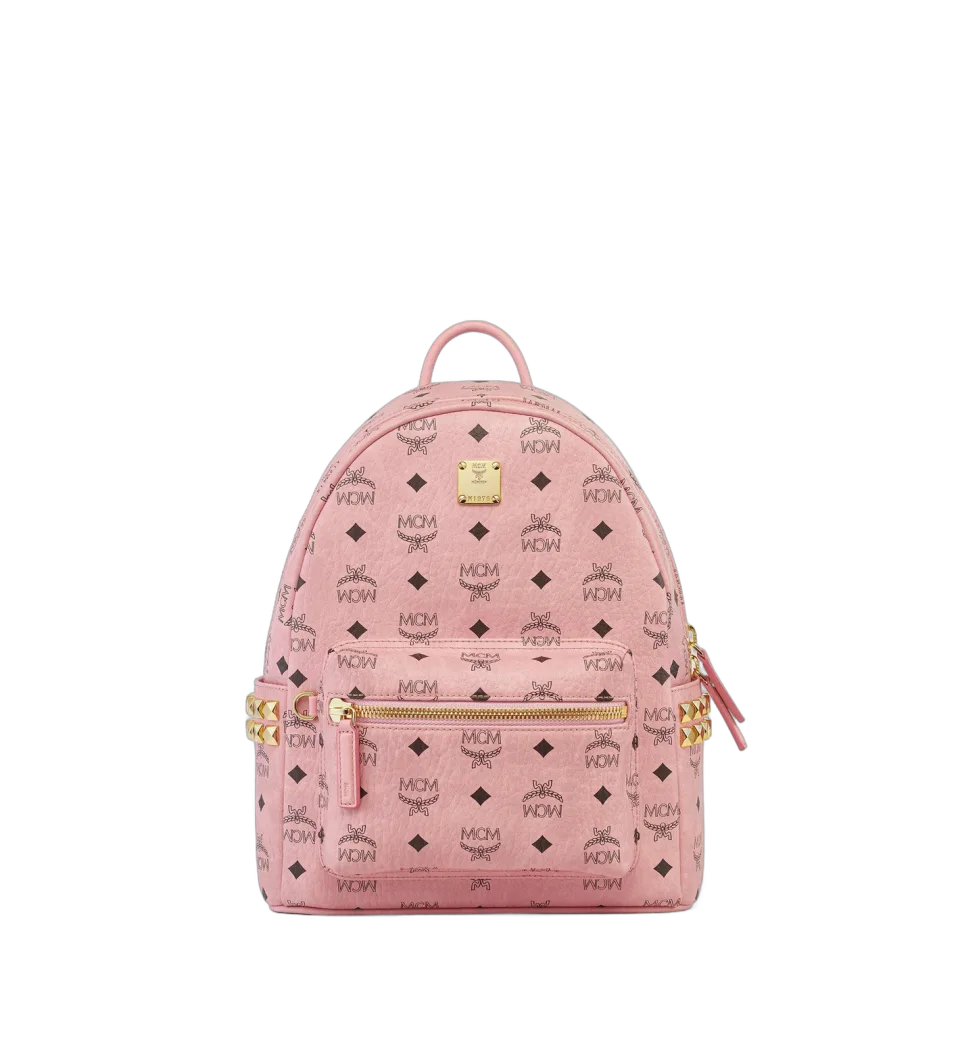
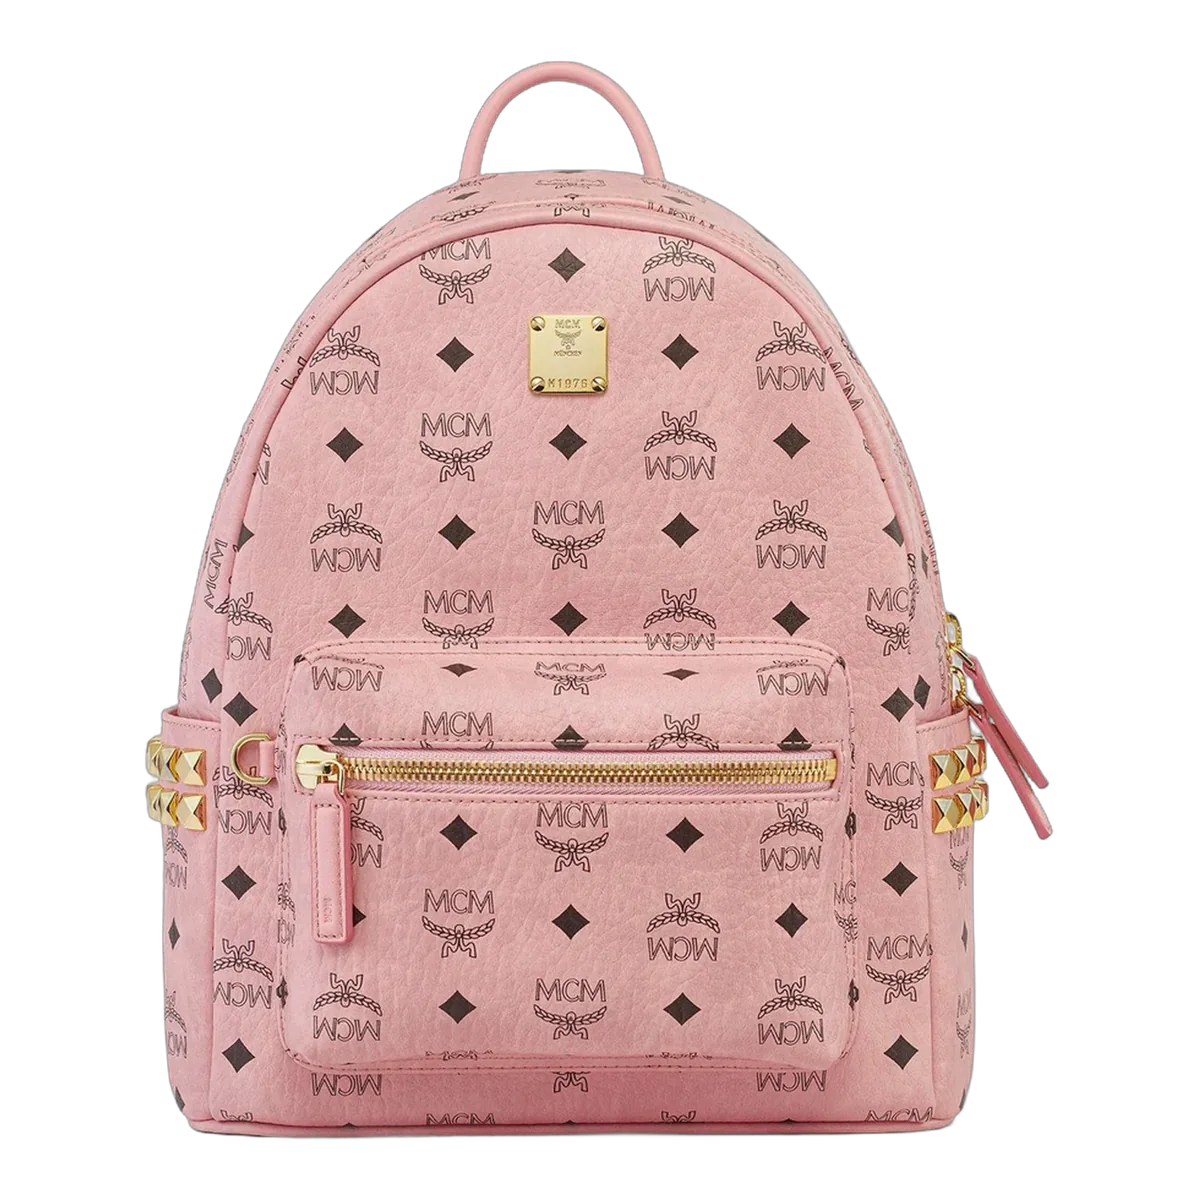
FIX: 배경 버그수정

diff --git a/src/App.css b/src/App.css
@@ -193,8 +193,12 @@
   margin-inline: auto;
 }
 
+/* Absolute, not fixed: the docent stays mounted across A1→A2→B1→B2 so the WebGL
+   context and GLB survive route changes, but it belongs to the page rather than the
+   viewport. Fixed made it hover over the content whenever a screen overflowed.
+   `.app-shell__content` is the positioned ancestor. */
 .stage-entry-persistent-docent {
-  position: fixed;
+  position: absolute;
   z-index: 2;
   width: min(85.8%, 21.5625rem);
   aspect-ratio: 345 / 216;
@@ -470,7 +474,7 @@
   --stage-c-featured-product-height: min(20rem, 42dvh);
   --stage-c-featured-product-media-height: clamp(15rem, 39dvh, 20rem);
   --stage-c-product-media-top-space: clamp(0.75rem, 2.25dvh, 1.25rem);
-  --stage-c-primary-cutout-scale: 1.38;
+  --stage-c-primary-cutout-scale: 1;
   --stage-c-close-inline-inset: 0.375rem;
   --stage-c-close-shift-inline: 0.125rem;
   --stage-c-close-shift-block: 0;
@@ -560,8 +564,10 @@
   filter: drop-shadow(0 1.25rem 1.25rem rgb(0 0 0 / 28%));
 }
 
-/* The new primary PNGs retain transparent safety space around the product.
-   Scale only those cutouts so their visible silhouette matches the former product framing. */
+/* Product cutouts arrive pre-normalized: alpha-bbox cropped and centered so the
+   longest side fills ~90% of the canvas. No per-asset scaling is needed, so this
+   stays at 1 and exists only as a tuning knob. Values above ~1.1 overflow the
+   media box and collide with the surrounding UI. */
 .stage-c-primary-cutout {
   transform: scale(var(--stage-c-primary-cutout-scale));
   transform-origin: center;
@@ -1224,11 +1230,14 @@
   display: none;
 }
 
+/* `contain`, not `cover`: the gallery box is taller than it is wide relative to the
+   square cutouts, so `cover` would crop ~13% of the height. The cutouts only carry
+   ~5% transparent margin, so that crop would cut into the product itself. */
 .stage-c-gallery-track img {
   flex: 0 0 100%;
   width: 100%;
   min-width: 0;
-  object-fit: cover;
+  object-fit: contain;
   scroll-snap-align: center;
 }
 
@@ -1774,9 +1783,11 @@
   overflow-y: hidden;
 }
 
+/* No `mix-blend-mode: multiply` here: it existed to knock out the white background of
+   the former opaque JPEGs. The styling shots are transparent cutouts now, so multiply
+   would only darken the product against the dark shell. */
 .stage-c-product-detail-media--styling .stage-c-gallery-track img {
   object-fit: contain;
-  mix-blend-mode: multiply;
 }
 
 .stage-c-product-detail-media--styling .stage-c-gallery-controls {

diff --git a/src/index.css b/src/index.css
@@ -28,8 +28,11 @@
   --app-safe-area-left: env(safe-area-inset-left, 0px);
   --app-content-edge-inset: max(4.875rem, var(--app-safe-area-bottom));
   font-family: 'Pretendard', system-ui, -apple-system, BlinkMacSystemFont, 'Segoe UI', sans-serif;
-  color: #213547;
-  background: #ffffff;
+  color: #ffffff;
+  /* Matches `.app-shell`. The dark surfaces are painted by the app shell and the
+     fixed ambient background, both of which stop at the viewport, so the root
+     colour is what shows through when a momentum scroll overshoots the document. */
+  background: #000000;
   font-synthesis: none;
   text-rendering: optimizeLegibility;
   -webkit-font-smoothing: antialiased;
@@ -56,7 +59,7 @@ body,
 body {
   min-height: var(--app-viewport-height);
   margin: 0;
-  background: #ffffff;
+  background: #000000;
 }
 
 button {

diff --git a/src/pages/StageD/D21ProductLocationGuide.tsx b/src/pages/StageD/D21ProductLocationGuide.tsx
@@ -37,7 +37,6 @@ export default function D21ProductLocationGuide({
           <ScreenHeadline headline={headline} onRevealComplete={() => setIsProductVisible(true)} reveal subtext={subtext} variant="md" className="stage-external-page__headline" />
           {isProductVisible && <InfoCard
             image={selectedProduct.image}
-            imageScale={1.25}
             imageSurface="transparent"
             imageVariant="primary-cutout"
             name={selectedProduct.name}

diff --git a/src/components/common/InfoCard.tsx b/src/components/common/InfoCard.tsx
@@ -15,7 +15,9 @@ interface InfoCardProps {
 export default function InfoCard({
   image,
   imageVariant = 'cover',
-  imageScale = 1.45,
+  // Cutouts are pre-normalized to ~90% fill; the thumbnail clips overflow, so
+  // anything above 1.1 crops the product edges.
+  imageScale = 1,
   imageSurface = 'white',
   name,
   description,

diff --git a/src/pages/StageD/D2ProductRecommendation.tsx b/src/pages/StageD/D2ProductRecommendation.tsx
@@ -56,7 +56,6 @@ export default function D2ProductRecommendation({
             <InfoCard
               key={product.id}
               image={product.image}
-              imageScale={1.25}
               imageSurface="transparent"
               imageVariant="primary-cutout"
               name={product.name}

diff --git a/README.md b/README.md
@@ -13,16 +13,19 @@ MCM 오프라인 매장의 익명 잠재 고객을 위한 AI SA 도슨트 프론
 - Framer Motion
 - CSS custom properties 기반 디자인 토큰
 - Oxlint
+- PWA 매니페스트 + 서비스워커 (production 빌드 한정)
 
 ## 현재 구현 상태
 
-- STAGE A1 → A2 → B1 → B2 → C1, 고객용 STAGE C의 C-a~C-e, STAGE D1 → D2 → D2-1, STAGE E 비차단 오버레이 UI가 `dev`와 `main`에 통합되어 있습니다.
+기준 커밋: `abcebff` (2026-08-16, `origin/dev`·`origin/main`에 병합됨)
+
+- STAGE A1 → A2 → B1 → B2 → C1, 고객용 STAGE C의 C-a~C-e, STAGE D1 → D2 → D2-1, STAGE E 비차단 오버레이 UI가 `origin/dev`와 `origin/main`에 통합되어 있습니다.
 - D2는 정적 fixture 추천이며 실제 AI 추천은 아직 연결되지 않았습니다. STAGE E도 오버레이 UI만 구현되어 백엔드·SA 실시간 상태와 `sa_call` 이벤트는 동기화하지 않습니다.
-- 제품 계약상 C4-2·C4-3은 SA 대시보드 화면이라 고객용 STAGE C 범위에서 제외되어 있습니다.
+- PWA 매니페스트와 서비스워커가 추가되어 설치와 오프라인 앱 셸이 동작합니다. 서비스워커는 production 빌드에서만 등록됩니다.
 - A~F에는 Figma 디자인 레퍼런스 기반 시각 보정이 반영되어 있으며, 사용자 주도의 세부 QA를 계속합니다.
-- 3D 도슨트는 12개 절차적 cue와 reduced-motion·WebGL fallback을 지원합니다. A·B, 일부 C 상태 화면, D1·D2·D2-1, E2에 선별 적용하고 C2 상세와 STAGE F는 제품·문구 집중을 위해 미노출합니다.
+- 3D 도슨트는 14개 절차적 cue와 reduced-motion·WebGL fallback을 지원합니다. A·B, 일부 C 상태 화면, D1·D2·D2-1, E2에 선별 적용하고 C2 상세와 STAGE F는 제품·문구 집중을 위해 미노출합니다.
 - 최신 기획에서 STAGE G는 삭제되었습니다. F1·F2 SA 화면은 아직 미구현이고, 고객용 F3~F8 route·UI·이메일 PII 분리 Mock은 통합되어 있습니다. 실제 시간 기반 Blocker 감지, 전체 우선순위·억제, 실제 발송/SA 연동은 후속 범위입니다.
-- 현재 확인된 최우선 회귀는 C4 허브가 C4-1 요청 단계를 건너뛰는 문제와 SA 전용 C4-2가 고객 route로 노출되는 문제입니다.
+- C4-1은 허브에서 요청 단계를 건너뛰고 즉시 완료 화면으로 이동합니다. 확인 단계를 살릴지 즉시 요청으로 확정할지 결정 대기 중입니다.
 - 전체 감사 결과와 수정 우선순위는 `docs/IMPLEMENTATION_AUDIT.md`를 따릅니다.
 
 ## 주요 화면 경로
@@ -35,6 +38,8 @@ MCM 오프라인 매장의 익명 잠재 고객을 위한 AI SA 도슨트 프론
 - `/stage-c/:sku/product`: 제품 이해 허브
 - `/stage-c/:sku/fit`: 핏·착장 허브
 - `/stage-c/:sku/purchase`: 구매 조건 허브
+- `/stage-c/:sku/purchase/price`: C4-1 가격 안내 요청 (`/pending`, `/completed` 단계 포함)
+- `/stage-c/:sku/purchase/stock`: C4-2 재고 문의 직원 연결 안내
 - `/stage-c/:sku/other`: 기타 질문
 - `/stage-c/:sku/coming-soon/STAGE-D1`: 첫 제품 이탈 뒤 방문 목적 선택으로 연결되는 호환 경로
 - `/stage-d/recommend`: 선택 목적 기반 제품 목록
